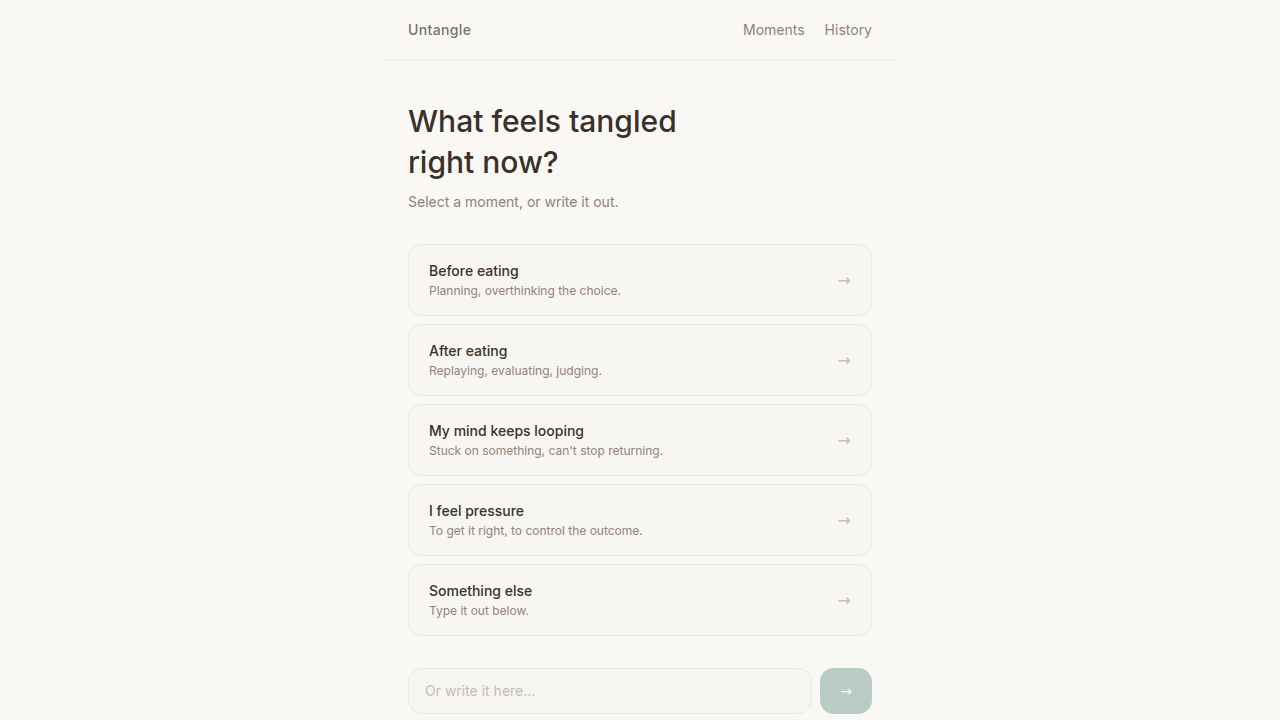
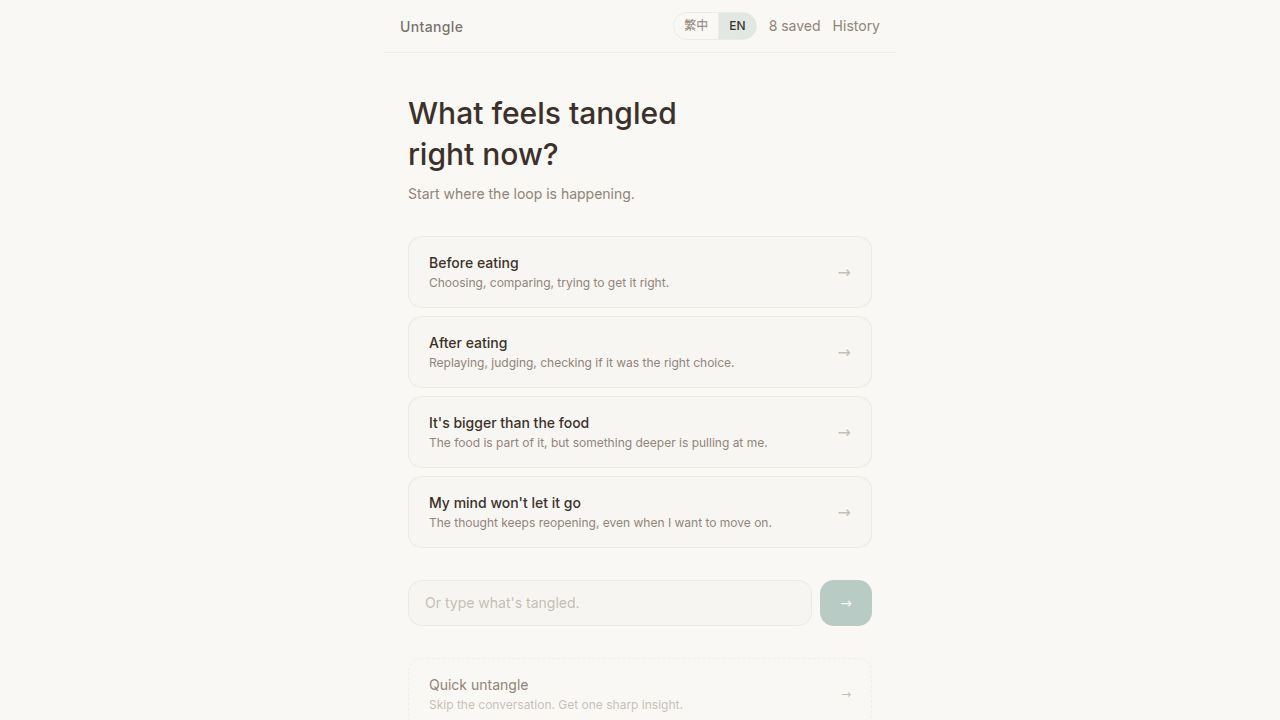
Update session flow to improve user experience and fix save count functionality
Refactors UI text, satiety options and responses, and button merging in SessionFlow.tsx. Addresses issues with disappearing state, fake save counts, and redundant buttons, while introducing a new satiety state.

Replit-Commit-Author: Agent
Replit-Commit-Session-Id: faf07caf-68fc-4a33-aa5c-0d640c6d8e61
Replit-Commit-Checkpoint-Type: full_checkpoint
Replit-Commit-Event-Id: 04704a76-8247-4205-ad8a-07cad650d06a
Replit-Commit-Screenshot-Url: https://storage.googleapis.com/screenshot-production-us-central1/bfab944b-386b-4aee-b884-e6d63a059df6/faf07caf-68fc-4a33-aa5c-0d640c6d8e61/0xFfCd1
Replit-Helium-Checkpoint-Created: true

diff --git a/artifacts/untangle/src/pages/SessionFlow.tsx b/artifacts/untangle/src/pages/SessionFlow.tsx
@@ -99,8 +99,7 @@ const UI_TEXT = {
     keepThis: "Your stop line — use this when it loops back",
     whenReturns: "Say this the next time the loop starts.",
     closeLoop: "Close this loop",
-    stillThinking: "Go one layer deeper",
-    showPattern: "This didn't quite hit",
+    stillThinking: "Go deeper",
     whatsLooping: "What's looping",
     whatYouNeed: "What you actually need",
     stoppingLine: "Your stopping line",
@@ -123,8 +122,7 @@ const UI_TEXT = {
     keepThis: "下次卡住時，先用這句",
     whenReturns: "這是你這次的 stop line。",
     closeLoop: "先停在這裡",
-    stillThinking: "再往下挖一層",
-    showPattern: "這句還沒打中",
+    stillThinking: "再看深一點",
     whatsLooping: "什麼在迴圈",
     whatYouNeed: "你真正需要的",
     stoppingLine: "你的停止句",
@@ -173,23 +171,41 @@ function InsightCard({
   );
 }
 
-type SatietyKey = "full+satisfied" | "full+unsatisfied" | "notfull+satisfied" | "notfull+unsatisfied";
+type SatietyKey = "full+satisfied" | "full+unsatisfied" | "notfull+satisfied" | "notfull+unsatisfied" | "notfull+bloated";
 
 const SATIETY_OPTIONS: { key: SatietyKey; en: string; tc: string }[] = [
-  { key: "full+satisfied",      en: "I'm full and satisfied",            tc: "我很飽，也有被滿足到" },
-  { key: "full+unsatisfied",    en: "I'm full but not satisfied",        tc: "我很飽，但心裡還是不滿足" },
-  { key: "notfull+satisfied",   en: "I'm not full but satisfied",        tc: "我還沒飽，但心裡有比較安定" },
-  { key: "notfull+unsatisfied", en: "I'm not full and not satisfied",    tc: "我不飽，也沒有被滿足到" },
+  { key: "full+satisfied",      en: "I'm full and satisfied",                              tc: "我很飽，也有被滿足到" },
+  { key: "full+unsatisfied",    en: "I'm full but mentally not satisfied",                 tc: "我很飽，但心裡還是不滿足" },
+  { key: "notfull+satisfied",   en: "I'm not full but the experience felt settled",        tc: "我還沒飽，但心裡有比較安定" },
+  { key: "notfull+unsatisfied", en: "I'm not full and not satisfied",                      tc: "我不飽，也沒有被滿足到" },
+  { key: "notfull+bloated",     en: "I'm not full, not satisfied — just bloated",          tc: "我沒有飽，也沒有被滿足到，只是覺得脹" },
 ];
 
 const SATIETY_RESPONSES: Record<SatietyKey, { en: string; tc: string }> = {
-  "full+satisfied":      { en: "Nothing more is needed.",                                               tc: "不需要再做什麼了。" },
-  "full+unsatisfied":    { en: "Your body is done.\nSomething else is still missing.",                   tc: "身體已經夠了。\n還卡著的，是別的東西。" },
-  "notfull+satisfied":   { en: "Your body may still need food.\nThe experience itself feels complete.",  tc: "身體可能還需要食物。\n但這次的感覺本身，是完整的。" },
-  "notfull+unsatisfied": { en: "Neither your body nor the experience is complete.",                      tc: "身體和心裡，都還沒到位。" },
+  "full+satisfied":      {
+    en: "This meal landed.\nThere's nothing more to figure out right now.",
+    tc: "這餐有到位。\n現在比較不需要再往下追了。",
+  },
+  "full+unsatisfied":    {
+    en: "Your body is done.\nBut something inside still hasn't settled.\nWhat's stuck may not be about the portion — it's something else.",
+    tc: "身體夠了，但心裡還沒被安頓。\n卡住的可能不是份量，是別的東西。",
+  },
+  "notfull+satisfied":   {
+    en: "Your body may still need a little more.\nBut the experience itself feels complete.",
+    tc: "身體可能還需要一點，但這餐帶來的感受有比較完整。",
+  },
+  "notfull+unsatisfied": {
+    en: "This didn't feel like a real finish.\nNeither your body nor the experience got to where it needed to be.",
+    tc: "這不像是真的完成。\n比較像這餐兩邊都沒把你帶到位。",
+  },
+  "notfull+bloated":     {
+    en: "This isn't fullness. This isn't satisfaction.\nIt's more like your body is carrying something, but the meal didn't actually complete.",
+    tc: "這不是飽，也不是滿足。\n比較像身體有負擔感，但這餐沒有真的完成。",
+  },
 };
 
 function SatietyCheck({ isTc, answer, onAnswer }: { isTc: boolean; answer: SatietyKey | null; onAnswer: (k: SatietyKey) => void }) {
+  const selected = answer ? SATIETY_OPTIONS.find((o) => o.key === answer) : null;
   const response = answer ? SATIETY_RESPONSES[answer] : null;
   return (
     <motion.div
@@ -214,15 +230,21 @@ function SatietyCheck({ isTc, answer, onAnswer }: { isTc: boolean; answer: Satie
           ))}
         </div>
       )}
-      {answer && response && (
-        <motion.p
+      {answer && selected && response && (
+        <motion.div
           initial={{ opacity: 0 }}
           animate={{ opacity: 1 }}
           transition={{ duration: 0.3 }}
-          className="text-sm text-foreground leading-relaxed whitespace-pre-wrap"
+          className="space-y-3"
         >
-          {isTc ? response.tc : response.en}
-        </motion.p>
+          <p className="text-xs text-muted-foreground/70">
+            {isTc ? "你選的是：" : "You chose: "}
+            <span className="text-foreground/80">{isTc ? selected.tc : selected.en}</span>
+          </p>
+          <p className="text-sm text-foreground leading-relaxed whitespace-pre-wrap">
+            {isTc ? response.tc : response.en}
+          </p>
+        </motion.div>
       )}
     </motion.div>
   );
@@ -328,7 +350,6 @@ export function SessionFlow() {
   const [hiddenFear, setHiddenFear] = useState<string | null>(null);
   const [anchorPhrase, setAnchorPhrase] = useState<string | null>(null);
   const [coreNeeds, setCoreNeeds] = useState<string[]>([]);
-  const [showPattern, setShowPattern] = useState(false);
   const [loopDismissed, setLoopDismissed] = useState(false);
   const [satietyAnswer, setSatietyAnswer] = useState<SatietyKey | null>(null);
 
@@ -340,7 +361,7 @@ export function SessionFlow() {
   const { mutateAsync: sendChat } = useUntangleChat();
   const { mutateAsync: createSession } = useCreateSession();
   const { mutateAsync: saveMoment } = useSaveMoment();
-  const { data: savedMoments } = useListMoments();
+  const { data: savedMoments, refetch: refetchMoments } = useListMoments();
 
   useEffect(() => {
     bottomRef.current?.scrollIntoView({ behavior: "smooth" });
@@ -439,7 +460,6 @@ export function SessionFlow() {
     setHiddenFear(null);
     setAnchorPhrase(null);
     setCoreNeeds([]);
-    setShowPattern(false);
     setLoopDismissed(false);
     setSatietyAnswer(null);
     setMessages([]);
@@ -506,6 +526,7 @@ export function SessionFlow() {
           originalThought: originalThought ?? undefined,
         },
       });
+      refetchMoments();
     } catch {
       setSavedMomentIds((prev) => {
         const next = new Set(prev);
@@ -542,7 +563,6 @@ export function SessionFlow() {
     setHiddenFear(null);
     setAnchorPhrase(null);
     setCoreNeeds([]);
-    setShowPattern(false);
     setLoopDismissed(false);
     setSatietyAnswer(null);
   };
@@ -559,13 +579,7 @@ export function SessionFlow() {
 
   const handleGoDeeper = () => {
     setLoopDismissed(true);
-    const text = isTc ? "可以再往下一層嗎？" : "Can you go one layer deeper?";
-    doSendMessage(text, mode, messagesRef.current);
-  };
-
-  const handleNotQuiteRight = () => {
-    setLoopDismissed(true);
-    const text = isTc ? "這句還沒打中" : "This didn't quite hit";
+    const text = isTc ? "可以再往下一層，或者換個角度看嗎？" : "Can you go one layer deeper, or try a different angle?";
     doSendMessage(text, mode, messagesRef.current);
   };
 
@@ -922,61 +936,20 @@ export function SessionFlow() {
                     initial={{ opacity: 0, y: 8 }}
                     animate={{ opacity: 1, y: 0 }}
                     transition={{ duration: 0.35, delay: 0.2 }}
-                    className="space-y-3"
+                    className="flex flex-col gap-2"
                   >
-                    <div className="flex flex-col gap-2">
-                      <button
-                        onClick={reset}
-                        className="w-full px-5 py-3.5 bg-primary text-primary-foreground text-sm rounded-xl hover:opacity-90 transition-opacity"
-                      >
-                        {t.closeLoop}
-                      </button>
-                      <button
-                        onClick={handleGoDeeper}
-                        className="w-full px-5 py-3.5 border border-border/60 bg-card/60 text-sm text-muted-foreground hover:text-foreground hover:border-border rounded-xl transition-all"
-                      >
-                        {t.stillThinking}
-                      </button>
-                      <button
-                        onClick={handleNotQuiteRight}
-                        className="w-full px-5 py-3.5 border border-border/40 bg-transparent text-sm text-muted-foreground/70 hover:text-muted-foreground hover:border-border/60 rounded-xl transition-all"
-                      >
-                        {t.showPattern}
-                      </button>
-                    </div>
-
-                    {showPattern && exitMessage && (
-                      <motion.div
-                        initial={{ opacity: 0, y: 6 }}
-                        animate={{ opacity: 1, y: 0 }}
-                        transition={{ duration: 0.3 }}
-                        className="rounded-xl border border-border/50 bg-card/60 p-5 space-y-3"
-                      >
-                        {exitMessage.loopType && (
-                          <div className="space-y-0.5">
-                            <p className="text-xs text-muted-foreground">{t.whatsLooping}</p>
-                            <p className="text-sm text-foreground capitalize">{exitMessage.loopType.replace(/_/g, " ")}</p>
-                          </div>
-                        )}
-                        {exitMessage.coreNeed && (
-                          <div className="space-y-0.5">
-                            <p className="text-xs text-muted-foreground">{t.whatYouNeed}</p>
-                            <p className="text-sm text-foreground">{exitMessage.coreNeed}</p>
-                          </div>
-                        )}
-                        {anchorPhrase && (
-                          <div className="space-y-0.5">
-                            <p className="text-xs text-muted-foreground">{t.stoppingLine}</p>
-                            <p className="text-sm text-foreground">"{anchorPhrase}"</p>
-                          </div>
-                        )}
-                        {exitMessage.loopIntensity && (
-                          <div className="space-y-0.5">
-                            <p className="text-xs text-muted-foreground/60 font-mono">{intensityDots(exitMessage.loopIntensity)}</p>
-                          </div>
-                        )}
-                      </motion.div>
-                    )}
+                    <button
+                      onClick={reset}
+                      className="w-full px-5 py-3.5 bg-primary text-primary-foreground text-sm rounded-xl hover:opacity-90 transition-opacity"
+                    >
+                      {t.closeLoop}
+                    </button>
+                    <button
+                      onClick={handleGoDeeper}
+                      className="w-full px-5 py-3.5 border border-border/60 bg-card/60 text-sm text-muted-foreground hover:text-foreground hover:border-border rounded-xl transition-all"
+                    >
+                      {t.stillThinking}
+                    </button>
                   </motion.div>
                 )}
 